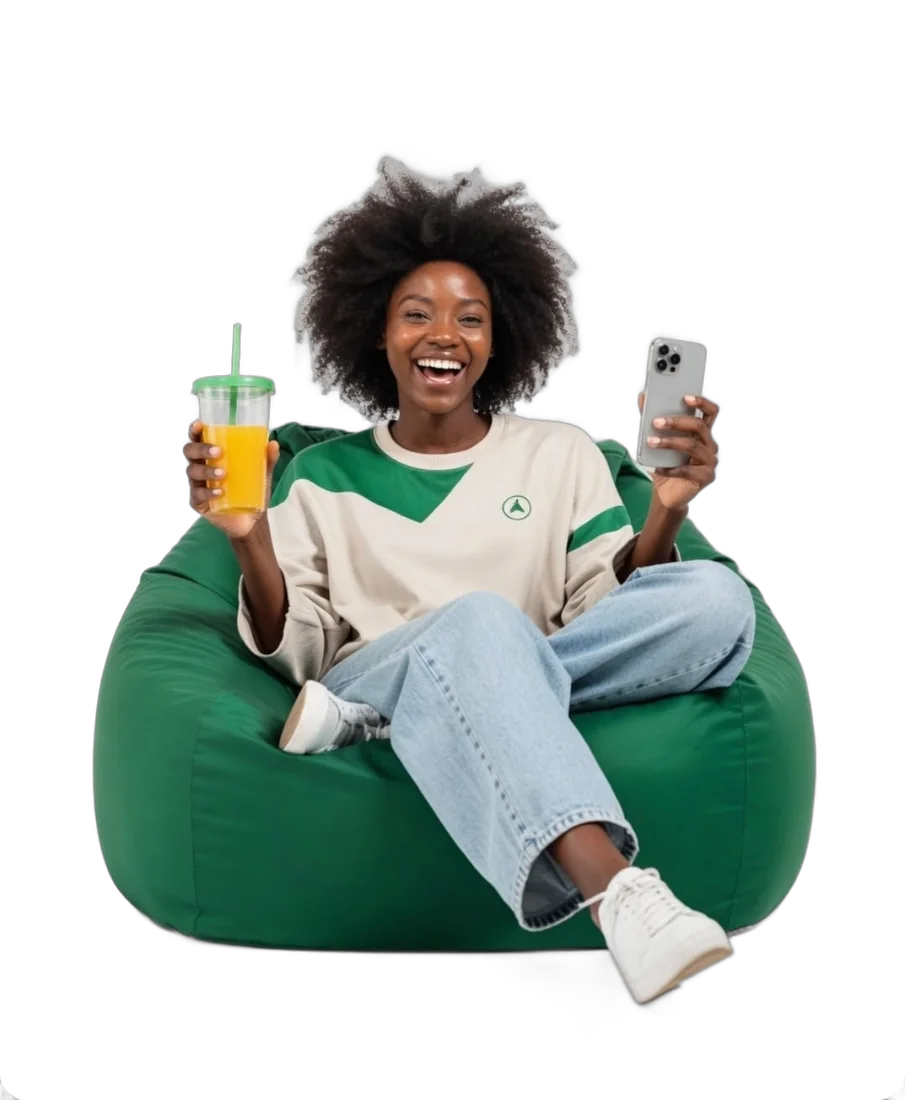
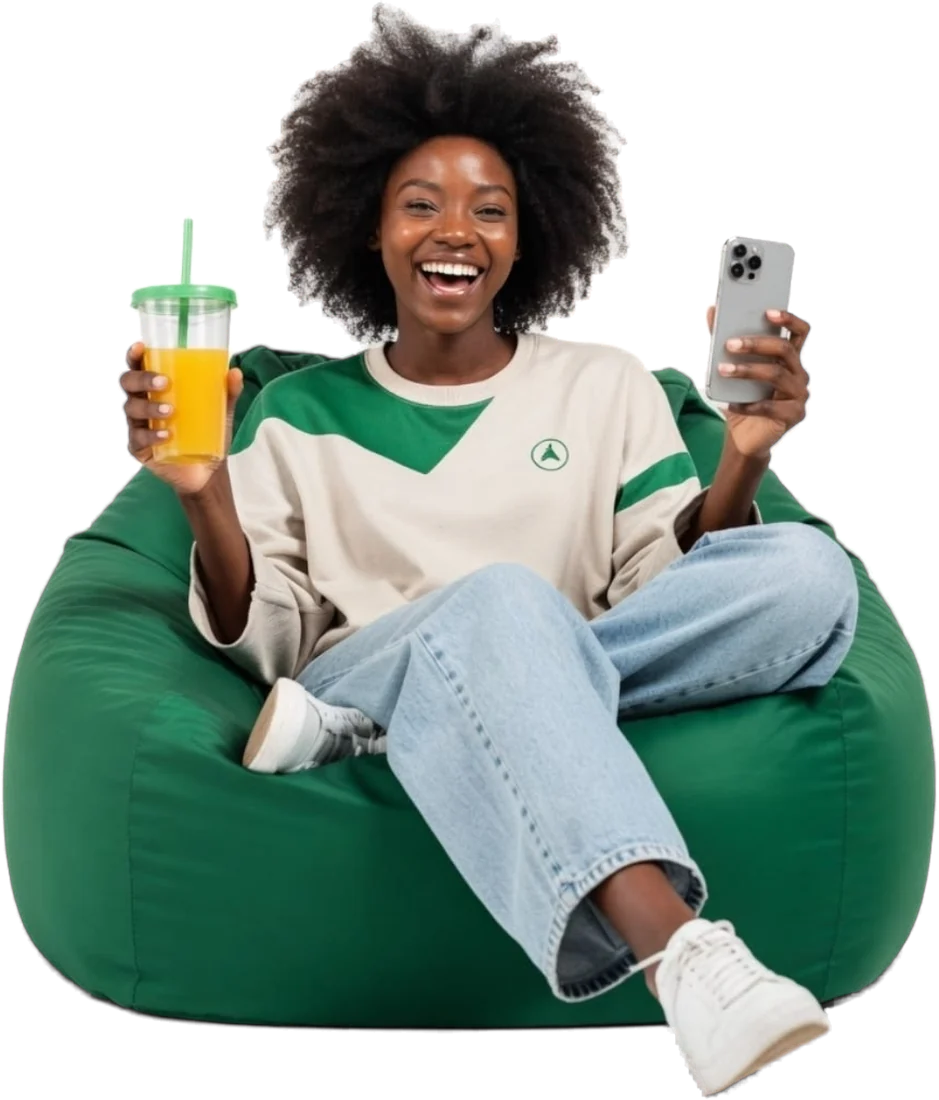
Add the spinning owners globe and tidy photos and copy
A globe of tiles you can drag, where each owner's photo sits beside the
message they sent and what Slipp gave back. Cleaner cut-out edges, whole
photos in the globe, one Open my shop button when signed in, no footer
wordmark, and copy that matches what the product does.

diff --git a/public/index.html b/public/index.html
@@ -144,15 +144,32 @@ section.block{padding:120px 0 0}
 .say{display:inline-block;margin-top:16px;background:var(--ink);color:#fff;border-radius:14px 14px 4px 14px;padding:9px 13px;font-size:14px}
 .say.it{background:#fff;color:var(--ink);border-radius:14px 14px 14px 4px;box-shadow:0 0 0 1px var(--line)}
 
-/* people: who it is for, each with the kind of message they send */
-.people{display:grid;grid-template-columns:repeat(3,1fr);gap:20px;margin-top:56px}
-.person{position:relative;height:520px;border-radius:28px;overflow:hidden}
-.person img{position:absolute;left:50%;bottom:0;height:92%;width:auto;transform:translateX(-50%)}
-.person.photo img{inset:0;height:100%;width:100%;object-fit:cover;transform:none;left:0}
-.person .say{position:absolute;left:20px;top:20px;margin:0;max-width:78%;z-index:1;box-shadow:0 12px 30px -12px rgba(14,31,22,.4)}
-.person .who-tag{position:absolute;left:20px;bottom:18px;z-index:1;font:500 12px/1 var(--mono);color:var(--ink);background:rgba(255,255,255,.8);-webkit-backdrop-filter:blur(8px);backdrop-filter:blur(8px);padding:8px 10px;border-radius:99px}
-.lime{background:radial-gradient(90% 80% at 50% 20%,#EEF6D8,#DCEBB8)}
-.leaf{background:radial-gradient(90% 80% at 50% 20%,#E3F2E6,#C9E4CF)}
+/* the globe: people and their messages on a sphere you can spin (after the Orb Gallery reference) */
+.orb-head{display:flex;justify-content:space-between;align-items:flex-end;gap:40px}
+.orb-head .sub{max-width:380px;font-size:16.5px}
+.orb-wrap{position:relative;height:720px;margin-top:24px;perspective:1600px;cursor:grab;touch-action:pan-y;user-select:none;-webkit-user-select:none;overflow:hidden}
+.orb-wrap:active{cursor:grabbing}
+.orb{position:absolute;left:50%;top:50%;width:0;height:0;transform-style:preserve-3d}
+.tile{position:absolute;left:-66px;top:-46px;width:132px;height:92px;border-radius:14px;overflow:hidden;backface-visibility:hidden;-webkit-backface-visibility:hidden;background:#fff;box-shadow:0 0 0 1px rgba(14,31,22,.07),0 10px 24px -14px rgba(14,31,22,.35);transition:filter .3s}
+.tile img{position:absolute;left:50%;bottom:0;height:96%;width:auto;transform:translateX(-50%);pointer-events:none}
+.tile.ph img{inset:0;left:0;height:100%;width:100%;object-fit:cover;object-position:50% 18%;transform:none}
+.tile.msg{background:var(--ink);color:#fff;padding:12px;font-size:12px;line-height:1.35;display:flex;align-items:flex-end}
+.tile.msg.lt{background:#fff;color:var(--ink)}
+.tile.rc2{padding:10px 11px;display:grid;align-content:space-between}
+.tile.rc2::before{content:"";position:absolute;inset:0 0 auto;height:3px;background:var(--green)}
+.tile.rc2.due::before{background:#D9A23B}
+.tile.rc2 small{display:flex;justify-content:space-between;font:600 9px/1 var(--mono);color:var(--mute)}
+.tile.rc2 small i{font-style:normal;color:var(--green-ink)}
+.tile.rc2.due small i{color:#9A6A12}
+.tile.rc2 b{font-size:11.5px}
+.tile.rc2 strong{font:600 16px/1 var(--mono);letter-spacing:-.03em}
+.tile.kp{background:var(--mint);padding:11px;display:grid;align-content:space-between}
+.tile.kp small{font:500 9.5px/1.2 var(--mono);color:var(--green-ink)}
+.tile.kp strong{font:600 17px/1 var(--mono);letter-spacing:-.03em}
+.tile.kp.low{background:#FCE9E2}.tile.kp.low small{color:var(--bad)}
+.t-mint{background:#D9EEDF}.t-leaf{background:#CFE6D4}.t-lime{background:#E3EFC4}.t-peach{background:#F6E0CF}.t-stone{background:#E6E1D6}
+.orb-hint{position:absolute;left:50%;bottom:24px;transform:translateX(-50%);display:inline-flex;align-items:center;gap:8px;font:500 12.5px/1 var(--mono);color:var(--mute);background:rgba(255,255,255,.7);-webkit-backdrop-filter:blur(8px);backdrop-filter:blur(8px);padding:9px 14px;border-radius:99px;box-shadow:0 0 0 1px var(--line);pointer-events:none}
+.orb-hint svg{width:16px;height:16px}
 
 /* product panels: real screens from the demo shop */
 .panels{display:grid;grid-template-columns:repeat(2,1fr);gap:20px;margin-top:56px}
@@ -179,7 +196,7 @@ section.block{padding:120px 0 0}
 .f-row p{margin:0;color:var(--mute);font-size:15px}
 
 .final{background:var(--ink);color:#fff;border-radius:32px;padding:88px 64px;margin:120px 0 0;position:relative;overflow:hidden;display:grid;grid-template-columns:minmax(0,1.1fr) minmax(0,.9fr);align-items:center;gap:24px;min-height:520px}
-.final .cheer{position:absolute;right:4%;bottom:-8px;height:112%;width:auto;filter:drop-shadow(0 30px 40px rgba(0,0,0,.45))}
+.final .cheer{position:absolute;right:3%;bottom:0;height:94%;width:auto;filter:drop-shadow(0 30px 40px rgba(0,0,0,.45))}
 .final::before{content:"";position:absolute;inset:0;background:radial-gradient(50% 80% at 78% 60%,rgba(20,184,107,.22),transparent 70%)}
 .final>*{position:relative}
 .final h2{font:600 clamp(34px,4.6vw,60px)/1.02 var(--display);letter-spacing:-.04em;margin:0 0 16px;max-width:12ch}
@@ -188,8 +205,8 @@ section.block{padding:120px 0 0}
 .final .btn-line{background:transparent;color:#fff;box-shadow:inset 0 0 0 1px rgba(255,255,255,.25)}
 .final .btn-line:hover{box-shadow:inset 0 0 0 1px #fff}
 
-/* footer as a colophon, with the wordmark cut off at the bottom edge */
-footer{color:var(--mute);font-size:14px;padding:80px 0 0;overflow:hidden}
+/* footer as a colophon */
+footer{color:var(--mute);font-size:14px;padding:80px 0 40px}
 footer .cols{display:grid;grid-template-columns:1.6fr repeat(3,1fr);gap:32px}
 footer .about p{margin:14px 0 0;max-width:280px}
 footer h4{margin:4px 0 14px;font:500 12.5px/1 var(--mono);color:var(--ink)}
@@ -198,16 +215,14 @@ footer a{color:var(--mute);text-decoration:none}
 footer a:hover{color:var(--ink)}
 footer a.me{color:var(--ink);font-weight:600}
 footer .legal{display:flex;justify-content:space-between;gap:16px;flex-wrap:wrap;margin-top:64px;padding-top:24px;border-top:1px solid var(--line);font-size:13px;color:var(--faint)}
-.mark{display:block;width:100%;height:auto;margin-top:48px;user-select:none}
-.mark text{font:800 330px var(--display);fill:var(--ink)}
 button.btn[data-demo][disabled]{opacity:.7}
 
 @media (max-width:1000px){
   .nav .links{display:none}
   .hero{grid-template-columns:1fr;padding:40px 0 56px;gap:36px}
   .art{height:520px}
-  .people{grid-template-columns:1fr 1fr}
-  .people .person:last-child{grid-column:1/-1}
+  .orb-head{flex-direction:column;align-items:flex-start;gap:0}
+  .orb-wrap{height:600px}
   .final{grid-template-columns:1fr;padding:56px 28px 0;min-height:0}
   .final .cheer{position:relative;right:auto;bottom:-8px;height:auto;width:min(420px,90%);margin:24px auto 0;display:block}
   .printer,.note{display:none}
@@ -238,8 +253,7 @@ button.btn[data-demo][disabled]{opacity:.7}
   .f-msg{right:4%;top:6%;font-size:12.5px;max-width:190px}
   .f-rcpt{right:4%;top:50%;width:170px}
   .f-rcpt strong{font-size:18px}
-  .people{grid-template-columns:1fr}
-  .person{height:440px}
+  .orb-wrap{height:530px;margin:8px -16px 0}
   .phone{width:280px;height:560px;margin-left:-140px;top:28px}
   .stage .cap{display:none}
   .panel{border-radius:22px;padding:30px 24px 0}
@@ -248,7 +262,7 @@ button.btn[data-demo][disabled]{opacity:.7}
   .panel .shot.phone-shot{width:240px}
   .final{border-radius:24px;margin-top:88px}
 }
-@media (prefers-reduced-motion:reduce){.float{opacity:1!important;transform:none!important;animation:none!important}.rise,.note{opacity:1!important;transform:none!important}.printer .slip{transform:none!important;transition:none}[data-enter],.b,.rc{opacity:1!important;transform:none!important;animation:none!important}}
+@media (prefers-reduced-motion:reduce){.orb-hint{display:none}.float{opacity:1!important;transform:none!important;animation:none!important}.rise,.note{opacity:1!important;transform:none!important}.printer .slip{transform:none!important;transition:none}[data-enter],.b,.rc{opacity:1!important;transform:none!important;animation:none!important}}
 </style>
 </head>
 <body>
@@ -276,7 +290,7 @@ button.btn[data-demo][disabled]{opacity:.7}
       <div class="art" aria-hidden="true" data-enter style="animation-delay:.2s">
         <img class="who" src="/img/p-beanbag.webp" width="905" height="1100" alt="" fetchpriority="high">
         <div class="float f-kpi"><small>Profit this month</small><b>₦326,400</b><span>Sales minus spending</span><svg viewBox="0 0 120 28" fill="none" stroke="#14B86B" stroke-width="2.4" stroke-linecap="round" stroke-linejoin="round"><path d="M2 24l18-6 16 3 18-10 16 4 18-9 16 2 14-6"/></svg></div>
-        <div class="float f-msg">Sold 2 bags of rice to Chidi, he paid by transfer</div>
+        <div class="float f-msg">Sold 2 bags of rice and 1 palm oil to Chidi. He paid by transfer</div>
         <div class="float f-rcpt"><div><small>Receipt R-0061 <i>PAID</i></small><b>Chidi Okonkwo</b><strong>₦160,500</strong></div></div>
       </div>
     </section>
@@ -311,7 +325,7 @@ button.btn[data-demo][disabled]{opacity:.7}
         <div class="sc-body" id="demo"></div>
       </div></div>
       <div class="note" id="note">
-        <small>November so far</small>
+        <small>This month so far</small>
         <b>₦326,400</b><span>profit</span>
         <hr>
         <div class="row"><span>Sales</span><i>₦398,400</i></div>
@@ -334,13 +348,14 @@ button.btn[data-demo][disabled]{opacity:.7}
     </section>
 
     <section class="block" id="people">
-      <p class="kicker"><i>03</i>Who it's for</p>
-      <h2 class="h2">For the people behind the counter.</h2>
-      <p class="sub">Fashion, food, phones, provisions. If you sell, you can text Slipp the way you'd text a friend.</p>
-      <div class="people">
-        <figure class="person leaf rise" style="margin:0"><span class="say">Sold 3 cartons of Indomie to Tunde</span><img src="/img/p-stripes.webp" width="633" height="1000" alt="A smiling man in a green striped shirt and bucket hat" loading="lazy" decoding="async"><span class="who-tag">Records a sale</span></figure>
-        <figure class="person lime rise" style="margin:0;transition-delay:.08s"><span class="say it">Restocked 20 bags of rice at 68k</span><img src="/img/p-cardigan.webp" width="629" height="1000" alt="A young man in a green cardigan lowering his sunglasses" loading="lazy" decoding="async"><span class="who-tag">Updates stock</span></figure>
-        <figure class="person photo rise" style="margin:0;transition-delay:.16s"><span class="say">How much did I make this week?</span><img src="/img/p-laptop.webp" width="736" height="981" alt="A smiling man in an orange cap working on a laptop" loading="lazy" decoding="async"><span class="who-tag">Checks profit</span></figure>
+      <div class="orb-head">
+        <div><p class="kicker"><i>03</i>Who it's for</p>
+        <h2 class="h2">Every kind of shop. Every kind of owner.</h2></div>
+        <p class="sub">Fashion, food, phones, provisions. These are the messages people send Slipp every day. Drag the globe to look around.</p>
+      </div>
+      <div class="orb-wrap" id="orbWrap">
+        <div class="orb" id="orb"></div>
+        <span class="orb-hint" aria-hidden="true"><svg viewBox="0 0 24 24" fill="none" stroke="currentColor" stroke-width="1.8" stroke-linecap="round" stroke-linejoin="round"><path d="M8 13V5.5a1.5 1.5 0 0 1 3 0V12M11 11.5v-2a1.5 1.5 0 0 1 3 0V12M14 10.5a1.5 1.5 0 0 1 3 0V12M17 11.5a1.5 1.5 0 0 1 3 0V16a6 6 0 0 1-6 6h-2a6 6 0 0 1-5-2.7L4.3 15a1.5 1.5 0 0 1 2.5-1.7L8 15"/></svg>Drag to spin</span>
       </div>
     </section>
 
@@ -362,7 +377,7 @@ button.btn[data-demo][disabled]{opacity:.7}
           <div class="shot phone-shot"><img src="/img/shot-sales.webp" width="780" height="1170" alt="The sales list, with an unpaid invoice for Emeka Obi showing Remind and Mark paid buttons" loading="lazy" decoding="async"></div>
         </article>
         <article class="panel wide stone rise">
-          <div><p class="tag">Stock</p><h3>Stock that counts itself.</h3><p>Every sale takes items out of stock, and Slipp warns you before you run out.</p></div>
+          <div><p class="tag">Stock</p><h3>Stock that counts itself.</h3><p>Every sale takes items out of stock, and Slipp tells you when something is running low.</p></div>
           <div class="shot"><img src="/img/shot-stock.webp" width="1400" height="617" alt="The stock list: six products with prices and counts, Sugar 1kg marked running low at 4" loading="lazy" decoding="async"></div>
         </article>
       </div>
@@ -373,8 +388,8 @@ button.btn[data-demo][disabled]{opacity:.7}
       <h2 class="h2">Everything a small shop needs to track.</h2>
       <div class="feat">
         <div class="f-row"><span class="ic"><svg viewBox="0 0 24 24"><path d="M6 3h12v18l-2.5-1.8L13 21l-2.5-1.8L8 21l-2-1.5z"/><path d="M9 8h6M9 12h4"/></svg></span><b>Receipts and invoices</b><p>Clean PDFs with your name, address and bank details, sent on WhatsApp in a tap.</p></div>
-        <div class="f-row"><span class="ic"><svg viewBox="0 0 24 24"><circle cx="12" cy="12" r="9"/><path d="M12 7v5l3 2"/></svg></span><b>Payment reminders</b><p>A list of who owes you each morning, with the reminder message already written.</p></div>
-        <div class="f-row"><span class="ic"><svg viewBox="0 0 24 24"><path d="M12 3l8 4.5v9L12 21l-8-4.5v-9z"/><path d="M4 7.5l8 4.5 8-4.5M12 12v9"/></svg></span><b>Stock and prices</b><p>Save a price once and just say "sold 3 rice". Low-stock warnings come by themselves.</p></div>
+        <div class="f-row"><span class="ic"><svg viewBox="0 0 24 24"><circle cx="12" cy="12" r="9"/><path d="M12 7v5l3 2"/></svg></span><b>Payment reminders</b><p>Each morning on Telegram, Slipp lists the invoices that are due. Say "remind" and the message to your customer is written for you.</p></div>
+        <div class="f-row"><span class="ic"><svg viewBox="0 0 24 24"><path d="M12 3l8 4.5v9L12 21l-8-4.5v-9z"/><path d="M4 7.5l8 4.5 8-4.5M12 12v9"/></svg></span><b>Stock and prices</b><p>Save a price once, then just say "sold 3 rice". Slipp tells you in the chat when an item runs low.</p></div>
         <div class="f-row"><span class="ic"><svg viewBox="0 0 24 24"><rect x="3" y="6" width="18" height="13" rx="2"/><path d="M3 10h18M7 15h3"/></svg></span><b>Expenses</b><p>Fuel, rent, transport. Record them as they happen so your profit is honest.</p></div>
         <div class="f-row"><span class="ic"><svg viewBox="0 0 24 24"><circle cx="9" cy="8" r="3.5"/><path d="M3 20c.6-3.4 3-5.5 6-5.5s5.4 2.1 6 5.5M16 4.5a3.5 3.5 0 0 1 0 7M18 14.6c1.6.8 2.7 2.6 3 5.4"/></svg></span><b>Customers</b><p>Names and numbers saved from your sales, with what each one has paid and owes.</p></div>
         <div class="f-row"><span class="ic"><svg viewBox="0 0 24 24"><path d="M4 19.5V6a2 2 0 0 1 2-2h12a2 2 0 0 1 2 2v9a2 2 0 0 1-2 2H8.5z"/></svg></span><b>Browser or Telegram</b><p>Start on the web, then link Telegram. Both write to the same books.</p></div>
@@ -399,7 +414,6 @@ button.btn[data-demo][disabled]{opacity:.7}
       <div><h4>Project</h4><nav><a href="#how">How it works</a><a href="https://github.com/datArtist-io/Whatsapp-Receipt-Bot" target="_blank" rel="noopener">Source code</a><a href="https://josiaholuwadare.com" target="_blank" rel="noopener">Josiah Oluwadare</a></nav></div>
     </div>
     <div class="legal"><span>© 2026 Slipp</span><span>Designed and built by <a class="me" href="https://josiaholuwadare.com" target="_blank" rel="noopener">Josiah Oluwadare</a></span></div>
-    <svg class="mark" viewBox="0 0 1000 250" aria-hidden="true"><text x="0" y="300" textLength="1000" lengthAdjust="spacingAndGlyphs">Slipp</text></svg>
   </footer>
 </div>
 <script>
@@ -409,7 +423,8 @@ fetch('/api/auth').then((r) => r.json()).then((m) => {
   me = m;
   if (!m.signedIn) return;
   const label = m.demo ? 'Back to the demo' : 'Open my shop';
-  document.querySelectorAll('a[href="/start?signin"]').forEach((a) => { a.href = '/app'; a.textContent = label; });
+  document.querySelectorAll('.nav a[href="/start?signin"]').forEach((a) => a.remove());
+  document.querySelectorAll('footer a[href="/start?signin"]').forEach((a) => { a.href = '/app'; a.textContent = label; });
   const nav = document.querySelector('.nav [data-demo]');
   if (nav) { const a = document.createElement('a'); a.className = nav.className; a.href = '/app'; a.textContent = label; nav.replaceWith(a); }
   const create = document.querySelector('.hero .ctas a[href="/start"]');
@@ -434,6 +449,53 @@ document.querySelectorAll('[data-demo]').forEach((b) => b.addEventListener('clic
     alert("The demo couldn't open just now. " + e.message);
   }
 }));
+// The globe: tiles on latitude rings, slow spin, drag to turn with a little momentum.
+(() => {
+  const wrap = document.getElementById('orbWrap'), orb = document.getElementById('orb');
+  const P = (src, tint) => `<div class="tile ${tint}"><img src="/img/${src}.webp" alt="" loading="lazy" decoding="async"></div>`;
+  const PH = (src) => `<div class="tile ph"><img src="/img/${src}.webp" alt="" loading="lazy" decoding="async"></div>`;
+  const M = (t, lt) => `<div class="tile msg${lt ? ' lt' : ''}">${t}</div>`;
+  const RC = (no, who, amt, due) => `<div class="tile rc2${due ? ' due' : ''}"><small>${no} <i>${due ? 'DUE' : 'PAID'}</i></small><b>${who}</b><strong>${amt}</strong></div>`;
+  const K = (label, val, low) => `<div class="tile kp${low ? ' low' : ''}"><small>${label}</small><strong>${val}</strong></div>`;
+  // Each owner sits next to what they told Slipp and what came back, so the tiles read as small stories.
+  const items = [
+    PH('ph-beanbag'), M('Sold 2 bags of rice and 1 palm oil to Chidi'), RC('R-0061', 'Chidi Okonkwo', '₦160,500'),
+    PH('ph-stripes'), M('Sold 3 cartons of Indomie to Tunde, 11,800 each', 1), RC('R-0064', 'Tunde Bakare', '₦35,400'),
+    PH('ph-cardigan'), M('Add 20 bags of rice to stock'), K('Rice 50kg', '40 in stock'),
+    PH('ph-laptop'), M('How much did I make this week?', 1), K('Profit this week', '₦96,200'),
+    PH('ph-sky'), M('Sold 2 jeans to Ada, 18k each'), RC('R-0071', 'Ada Nwosu', '₦36,000'),
+    PH('ph-tee'), M('Paid 15k for fuel', 1), K('Expense saved', '₦15,000'),
+    PH('ph-cheer'), M('Who still owes me?'), RC('INV-0062', 'Emeka Obi', '₦35,400', 1), M('Remind Emeka about his invoice', 1), K('Sugar 1kg: 4 left', 'Running low', 1),
+  ];
+  const rings = [[-58, 7], [-34, 11], [-11, 14], [11, 14], [34, 11], [58, 7]];
+  const R = 330; let html = '', n = 0;
+  for (const [lat, count] of rings) for (let k = 0; k < count; k++) {
+    const lon = (360 / count) * k + (lat % 2 ? 0 : 180 / count) + lat;
+    html += items[n++ % items.length].replace('class="tile', `style="transform:rotateY(${lon.toFixed(1)}deg) rotateX(${-lat}deg) translateZ(${R}px)" class="tile`);
+  }
+  orb.innerHTML = html;
+  const calm = matchMedia('(prefers-reduced-motion: reduce)').matches;
+  let ry = 20, rx = -10, vy = calm ? 0 : .08, vx = 0, drag = null, seen = false;
+  const fit = () => { const w = wrap.clientWidth, h = wrap.clientHeight; return Math.min(1, w / (w < 600 ? 600 : 820), h / 780); };
+  let sc = fit(); addEventListener('resize', () => { sc = fit(); });
+  const tick = () => {
+    if (!drag) { ry += vy; rx += vx; vx *= .94; if (!calm) vy += (.08 * Math.sign(vy || 1) - vy) * .02; }
+    rx = Math.max(-35, Math.min(35, rx));
+    orb.style.transform = `scale(${sc}) rotateX(${rx}deg) rotateY(${ry}deg)`;
+    if (seen) requestAnimationFrame(tick);
+  };
+  new IntersectionObserver((es) => { const v = es[0].isIntersecting; if (v && !seen) { seen = true; requestAnimationFrame(tick); } else if (!v) seen = false; }).observe(wrap);
+  orb.style.transform = `scale(${sc}) rotateX(${rx}deg) rotateY(${ry}deg)`;
+  wrap.addEventListener('pointerdown', (e) => { drag = { x: e.clientX, y: e.clientY, t: performance.now() }; wrap.setPointerCapture(e.pointerId); });
+  wrap.addEventListener('pointermove', (e) => {
+    if (!drag) return;
+    const dx = e.clientX - drag.x, dy = e.clientY - drag.y;
+    ry += dx * .25; rx -= dy * .2; vy = dx * .25; vx = -dy * .2;
+    drag.x = e.clientX; drag.y = e.clientY;
+  });
+  const up = () => { drag = null; vy = Math.max(-6, Math.min(6, vy)); vx = Math.max(-3, Math.min(3, vx)); };
+  wrap.addEventListener('pointerup', up); wrap.addEventListener('pointercancel', up);
+})();
 // Panels ease into place once, as they scroll into view.
 (() => {
   const els = document.querySelectorAll('.rise');
@@ -446,7 +508,7 @@ const playChat = () => {
   const box = document.getElementById('demo'), paper = document.getElementById('paper'), note = document.getElementById('note');
   const calm = matchMedia('(prefers-reduced-motion: reduce)').matches;
   const steps = [
-    ['me', 'Sold 2 bags of rice and 1 oil to Chidi. He paid by transfer'],
+    ['me', 'Sold 2 bags of rice and 1 palm oil to Chidi. He paid by transfer'],
     ['typing'],
     ['it', 'Recorded receipt <b>R-0061</b> for Chidi: <b>₦160,500</b>. 10 bags of rice left.'],
     ['card'],
